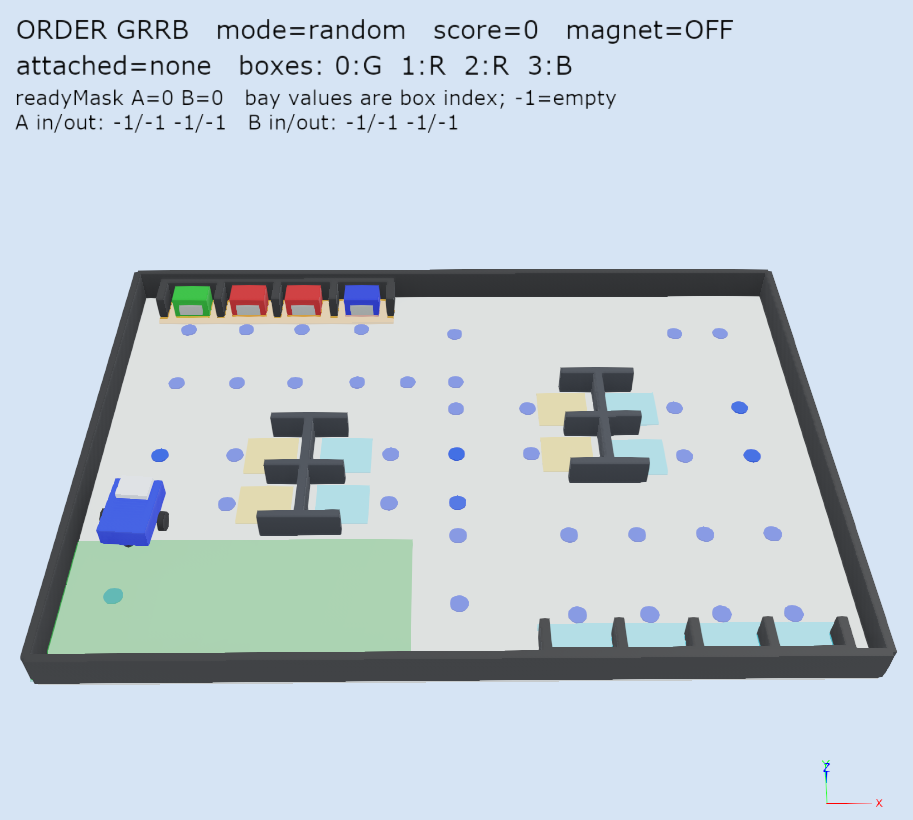
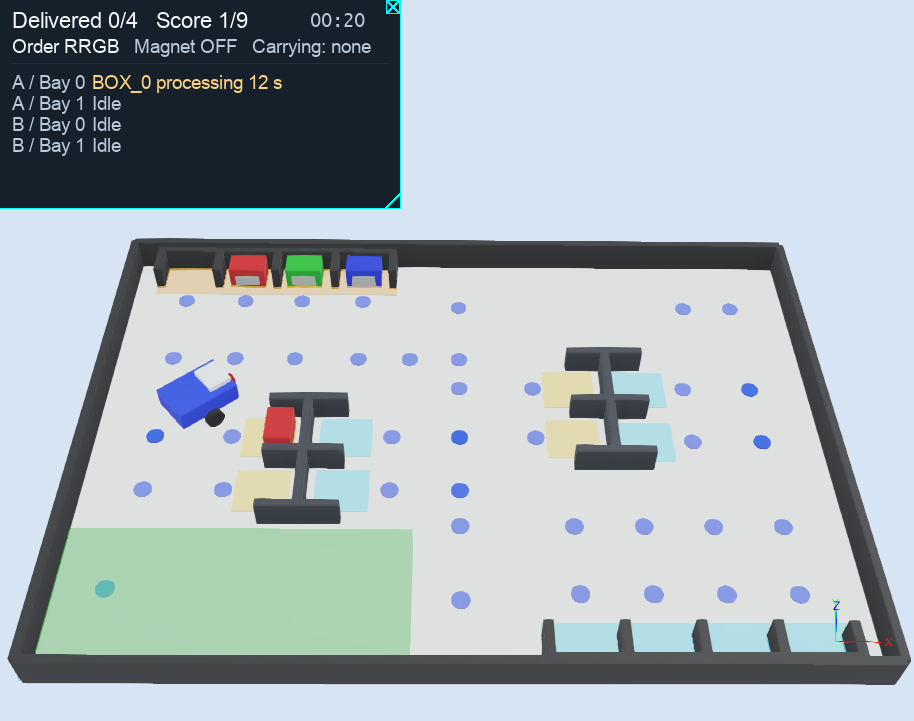
overlay screen update

diff --git a/controllers/logistics_supervisor_cpp/warehouse_overlay.hpp b/controllers/logistics_supervisor_cpp/warehouse_overlay.hpp
@@ -11,168 +11,192 @@
 
 // Presentation only: the supervisor supplies a snapshot of its existing rule
 // state. The display never changes scoring, timing, or the student protocol.
-namespace warehouse_overlay {
+namespace warehouse_overlay
+{
 
-// Keep these dimensions in sync with the warehouse_status Display in the world.
-constexpr int kWidth = 400;
-constexpr int kHeight = 208;
-constexpr int kStatusHeight = 164;
-constexpr double kWarningDuration = 8.0;
-constexpr int kBackground = 0x15202B;
-constexpr int kPanel = 0x223140;
-constexpr int kText = 0xF4F7FA;
-constexpr int kSecondary = 0xB9C9D8;
-constexpr int kReady = 0x82E0B0;
-constexpr int kWaiting = 0xFFD180;
-constexpr int kError = 0xFF9C9C;
+  // Keep these dimensions in sync with the warehouse_status Display in the world.
+  constexpr int kWidth = 400;
+  constexpr int kHeight = 208;
+  constexpr int kStatusHeight = 164;
+  constexpr double kWarningDuration = 8.0;
+  constexpr int kBackground = 0x15202B;
+  constexpr int kPanel = 0x223140;
+  constexpr int kText = 0xF4F7FA;
+  constexpr int kSecondary = 0xB9C9D8;
+  constexpr int kReady = 0x82E0B0;
+  constexpr int kWaiting = 0xFFD180;
+  constexpr int kError = 0xFF9C9C;
 
-struct Box {
-  char type = 'B';
-  bool delivered = false;
-};
+  struct Box
+  {
+    char type = 'B';
+    bool delivered = false;
+  };
 
-struct Bay {
-  int inputBox = -1;
-  int outputBox = -1;
-  bool processing = false;
-  double remainingSeconds = 0.0;
-};
+  struct Bay
+  {
+    int inputBox = -1;
+    int outputBox = -1;
+    bool processing = false;
+    double remainingSeconds = 0.0;
+  };
 
-struct Snapshot {
-  double time = 0.0;
-  int score = 0;
-  std::string initialOrder;
-  bool randomOrder = true;
-  bool magnetOn = false;
-  std::string attachedBox = "none";
-  std::array<Box, 4> boxes;
-  // A0, A1, B0, B1. Bay numbers match the student API.
-  std::array<Bay, 4> bays;
-  std::string event;
-  double eventTime = 0.0;
-  bool eventWarning = false;
-};
+  struct Snapshot
+  {
+    double time = 0.0;
+    int score = 0;
+    std::string initialOrder;
+    bool randomOrder = true;
+    bool magnetOn = false;
+    std::string attachedBox = "none";
+    std::array<Box, 4> boxes;
+    // A0, A1, B0, B1. Bay numbers match the student API.
+    std::array<Bay, 4> bays;
+    std::string event;
+    double eventTime = 0.0;
+    bool eventWarning = false;
+  };
 
-inline std::string clockText(double time) {
-  const int seconds = std::max(0, static_cast<int>(time));
-  char text[32];
-  std::snprintf(text, sizeof(text), "%02d:%02d", seconds / 60, seconds % 60);
-  return text;
-}
-
-inline int maximumScore(const std::string &order) {
-  int score = 0;
-  for (char type : order)
-    score += type == 'R' ? 3 : type == 'G' ? 2 : 1;
-  return score;
-}
-
-class Renderer {
-public:
-  explicit Renderer(webots::Display *display) : display_(display) {}
-
-  void draw(const Snapshot &state) {
-    if (!display_)
-      return;
-
-    // Clear the previous frame, including an expired warning. The unused footer
-    // stays transparent so the scene is visible below the compact status list.
-    display_->setOpacity(1.0);
-    display_->setAlpha(0.0);
-    rectangle(0, 0, kWidth, kHeight, kBackground);
-    display_->setAlpha(1.0);
-    const double eventAge = state.time - state.eventTime;
-    const bool showWarning = state.eventWarning && !state.event.empty() &&
-                             eventAge >= 0.0 && eventAge < kWarningDuration;
-    rectangle(0, 0, kWidth, showWarning ? kHeight : kStatusHeight, kBackground);
-
-    const int delivered = static_cast<int>(std::count_if(
-      state.boxes.begin(), state.boxes.end(), [](const Box &box) { return box.delivered; }));
-    text("Delivered " + std::to_string(delivered) + "/4", 12, 12, 16,
-         delivered == 4 ? kReady : kText);
-    text("Score " + std::to_string(state.score) + "/" + std::to_string(maximumScore(state.initialOrder)),
-         156, 12, 16);
-    // Monospaced, with space for elapsed times beyond 99 minutes.
-    text(clockText(state.time), 310, 13, 14, kSecondary, "Lucida Console");
-
-    text("Order " + state.initialOrder, 12, 39, 14);
-    text(std::string("Magnet ") + (state.magnetOn ? "ON" : "OFF"), 134, 39, 14,
-         state.magnetOn ? kText : kSecondary);
-    text("Carrying: " + state.attachedBox, 252, 39, 14,
-         state.attachedBox == "none" ? kSecondary : kText);
-    rectangle(12, 63, kWidth - 24, 1, kPanel);
-
-    for (int machine = 0; machine < 2; ++machine)
-      for (int bay = 0; bay < 2; ++bay)
-        drawBay(state.bays[2 * machine + bay], machine, bay, 75 + 21 * (2 * machine + bay));
-
-    if (showWarning)
-      drawWarning(state.event);
+  inline std::string clockText(double time)
+  {
+    const int seconds = std::max(0, static_cast<int>(time));
+    char text[32];
+    std::snprintf(text, sizeof(text), "%02d:%02d", seconds / 60, seconds % 60);
+    return text;
   }
 
-private:
-  void drawWarning(const std::string &event) {
-    rectangle(12, kStatusHeight, kWidth - 24, 1, kPanel);
-    // Only rejected actions need an event notice; routine events are already
-    // represented by the status rows. Wrap at words and cap the two-line footer.
-    // The bundled fixed-width font keeps the fit predictable.
-    std::string message = event;
-    constexpr size_t kLineLength = 46;
-    for (int line = 0; line < 2 && !message.empty(); ++line) {
-      if (line == 1 && message.size() > kLineLength) {
-        text(message.substr(0, kLineLength - 3) + "...", 12, 174 + 17 * line, 12, kError, "Lucida Console");
-        break;
-      }
-      size_t count = message.size();
-      if (count > kLineLength) {
-        count = message.rfind(' ', kLineLength);
-        if (count == std::string::npos)
-          count = kLineLength;
-      }
-      text(message.substr(0, count), 12, 174 + 17 * line, 12, kError, "Lucida Console");
-      message.erase(0, count);
-      if (!message.empty() && message.front() == ' ')
-        message.erase(0, 1);
+  inline int maximumScore(const std::string &order)
+  {
+    int score = 0;
+    for (char type : order)
+      score += type == 'R' ? 3 : type == 'G' ? 2
+                                             : 1;
+    return score;
+  }
+
+  class Renderer
+  {
+  public:
+    explicit Renderer(webots::Display *display) : display_(display) {}
+
+    void draw(const Snapshot &state)
+    {
+      if (!display_)
+        return;
+
+      // Clear the previous frame, including an expired warning. The unused footer
+      // stays transparent so the scene is visible below the compact status list.
+      display_->setOpacity(1.0);
+      display_->setAlpha(0.0);
+      rectangle(0, 0, kWidth, kHeight, kBackground);
+      display_->setAlpha(1.0);
+      const double eventAge = state.time - state.eventTime;
+      const bool showWarning = state.eventWarning && !state.event.empty() &&
+                               eventAge >= 0.0 && eventAge < kWarningDuration;
+      rectangle(0, 0, kWidth, kHeight, kBackground);
+
+      const int delivered = static_cast<int>(std::count_if(
+          state.boxes.begin(), state.boxes.end(), [](const Box &box)
+          { return box.delivered; }));
+      text("Delivered " + std::to_string(delivered) + "/4", 12, 12, 16,
+           delivered == 4 ? kReady : kText);
+      text("Score " + std::to_string(state.score) + "/" + std::to_string(maximumScore(state.initialOrder)),
+           156, 12, 16);
+      // Monospaced, with space for elapsed times beyond 99 minutes.
+      text(clockText(state.time), 310, 13, 14, kSecondary, "Lucida Console");
+
+      text("Order " + state.initialOrder, 12, 39, 14);
+      text(std::string("Magnet ") + (state.magnetOn ? "ON" : "OFF"), 134, 39, 14,
+           state.magnetOn ? kText : kSecondary);
+      text("Carrying: " + state.attachedBox, 252, 39, 14,
+           state.attachedBox == "none" ? kSecondary : kText);
+      rectangle(12, 63, kWidth - 24, 1, kPanel);
+
+      for (int machine = 0; machine < 2; ++machine)
+        for (int bay = 0; bay < 2; ++bay)
+          drawBay(state.bays[2 * machine + bay], machine, bay, 75 + 21 * (2 * machine + bay));
+
+      if (showWarning)
+        drawWarning(state.event);
     }
-  }
 
-  void text(const std::string &value, int x, int y, int size, int color = kText,
-            const std::string &font = "Arial") {
-    display_->setColor(color);
-    display_->setFont(font, size, true);
-    display_->drawText(value, x, y);
-  }
-
-  void rectangle(int x, int y, int width, int height, int color) {
-    display_->setColor(color);
-    display_->fillRectangle(x, y, width, height);
-  }
-
-  void drawBay(const Bay &bay, int machine, int index, int y) {
-    text(std::string(machine == 0 ? "A" : "B") + " / Bay " + std::to_string(index), 12, y, 14, kSecondary);
-
-    std::string status = "Idle";
-    int color = kSecondary;
-    if (bay.processing && bay.inputBox >= 0) {
-      status = "BOX_" + std::to_string(bay.inputBox) + " processing " +
-               std::to_string(static_cast<int>(std::ceil(std::max(0.0, bay.remainingSeconds)))) + " s";
-      color = kWaiting;
-    } else if (bay.inputBox >= 0 && bay.outputBox >= 0) {
-      status = "BOX_" + std::to_string(bay.inputBox) + " waiting / BOX_" + std::to_string(bay.outputBox) + " ready";
-      color = kWaiting;
-    } else if (bay.outputBox >= 0) {
-      status = "BOX_" + std::to_string(bay.outputBox) + " ready";
-      color = kReady;
-    } else if (bay.inputBox >= 0) {
-      status = "BOX_" + std::to_string(bay.inputBox) + " waiting";
-      color = kWaiting;
+  private:
+    void drawWarning(const std::string &event)
+    {
+      rectangle(12, kStatusHeight, kWidth - 24, 1, kPanel);
+      // Only rejected actions need an event notice; routine events are already
+      // represented by the status rows. Wrap at words and cap the two-line footer.
+      // The bundled fixed-width font keeps the fit predictable.
+      std::string message = event;
+      constexpr size_t kLineLength = 46;
+      for (int line = 0; line < 2 && !message.empty(); ++line)
+      {
+        if (line == 1 && message.size() > kLineLength)
+        {
+          text(message.substr(0, kLineLength - 3) + "...", 12, 174 + 17 * line, 12, kError, "Lucida Console");
+          break;
+        }
+        size_t count = message.size();
+        if (count > kLineLength)
+        {
+          count = message.rfind(' ', kLineLength);
+          if (count == std::string::npos)
+            count = kLineLength;
+        }
+        text(message.substr(0, count), 12, 174 + 17 * line, 12, kError, "Lucida Console");
+        message.erase(0, count);
+        if (!message.empty() && message.front() == ' ')
+          message.erase(0, 1);
+      }
     }
-    text(status, 92, y, 14, color);
-  }
 
-  webots::Display *display_;
-};
+    void text(const std::string &value, int x, int y, int size, int color = kText,
+              const std::string &font = "Arial")
+    {
+      display_->setColor(color);
+      display_->setFont(font, size, true);
+      display_->drawText(value, x, y);
+    }
 
-}  // namespace warehouse_overlay
+    void rectangle(int x, int y, int width, int height, int color)
+    {
+      display_->setColor(color);
+      display_->fillRectangle(x, y, width, height);
+    }
+
+    void drawBay(const Bay &bay, int machine, int index, int y)
+    {
+      text(std::string(machine == 0 ? "A" : "B") + " / Bay " + std::to_string(index), 12, y, 14, kSecondary);
+
+      std::string status = "Idle";
+      int color = kSecondary;
+      if (bay.processing && bay.inputBox >= 0)
+      {
+        status = "BOX_" + std::to_string(bay.inputBox) + " processing " +
+                 std::to_string(static_cast<int>(std::ceil(std::max(0.0, bay.remainingSeconds)))) + " s";
+        color = kWaiting;
+      }
+      else if (bay.inputBox >= 0 && bay.outputBox >= 0)
+      {
+        status = "BOX_" + std::to_string(bay.inputBox) + " waiting / BOX_" + std::to_string(bay.outputBox) + " ready";
+        color = kWaiting;
+      }
+      else if (bay.outputBox >= 0)
+      {
+        status = "BOX_" + std::to_string(bay.outputBox) + " ready";
+        color = kReady;
+      }
+      else if (bay.inputBox >= 0)
+      {
+        status = "BOX_" + std::to_string(bay.inputBox) + " waiting";
+        color = kWaiting;
+      }
+      text(status, 92, y, 14, color);
+    }
+
+    webots::Display *display_;
+  };
+
+} // namespace warehouse_overlay
 
 #endif
